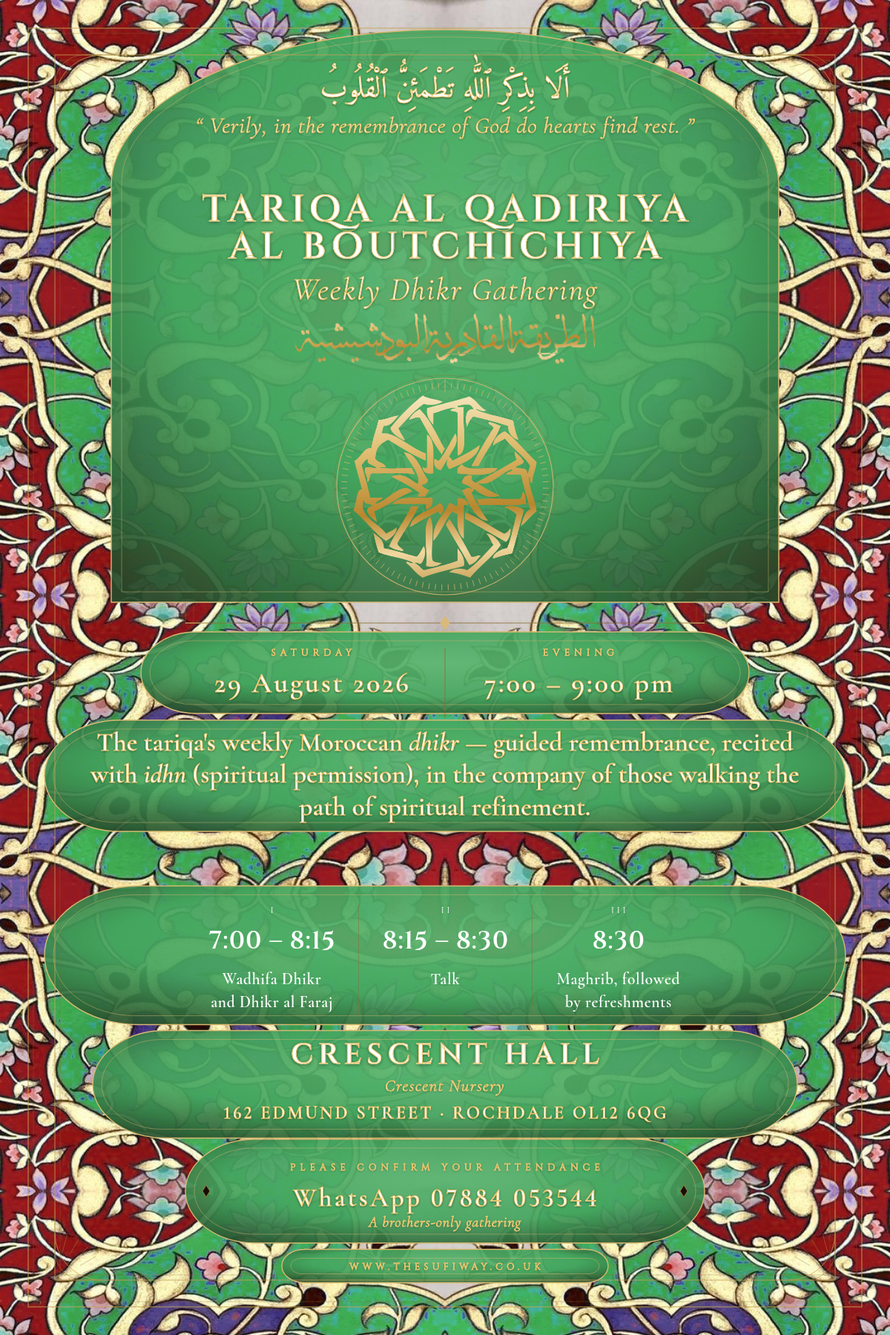
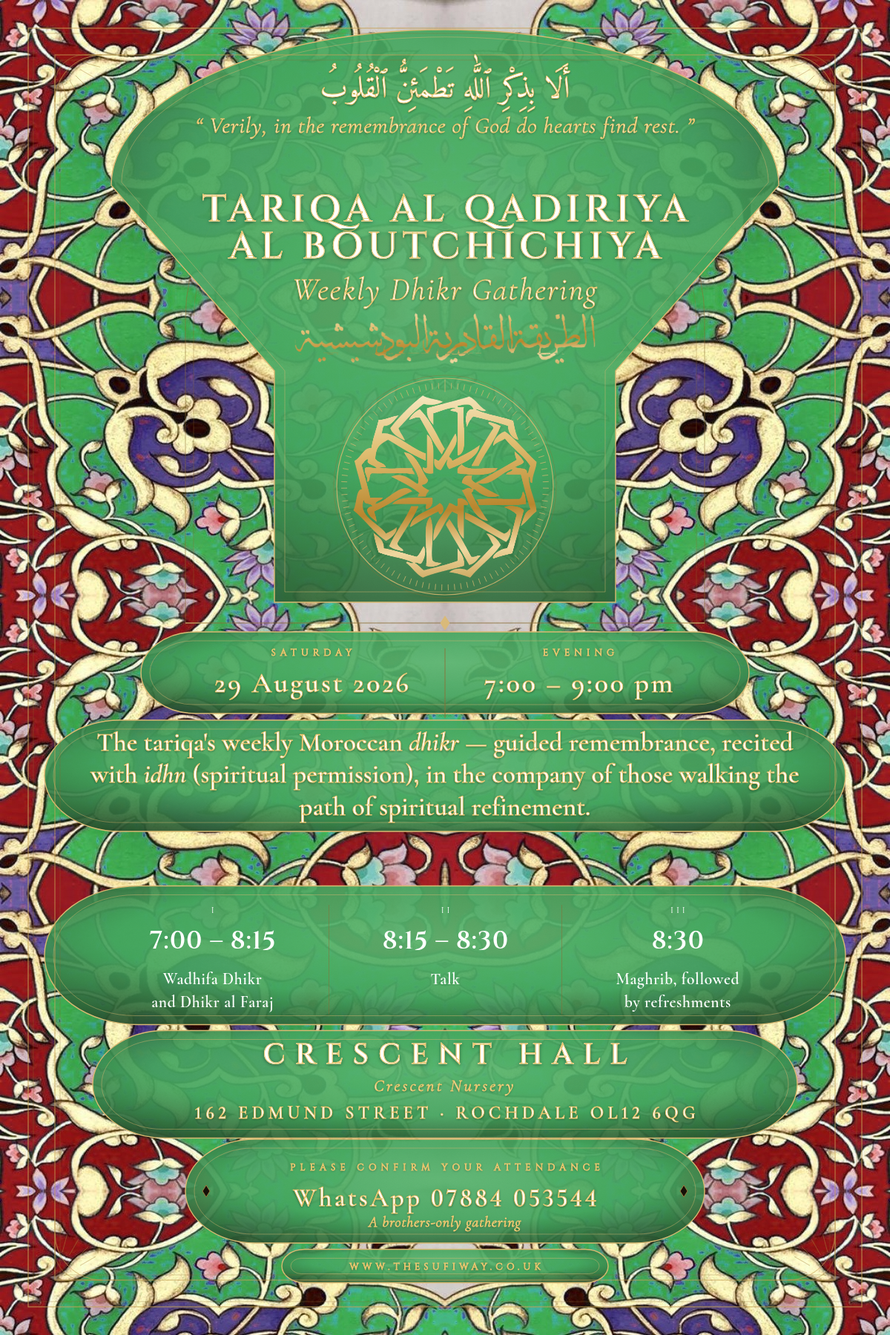
Waist the hero panel around the star, spread out the programme/venue text
Two fixes from the user's own markup on a rendered copy:

- hero_arch_panel() now tapers inward below the title/subtitle/wordmark
  to a narrower waist that runs straight down past the star, instead of
  staying at the full dome width all the way to the base. That width was
  dead solid-colour panel either side of the medallion, holding nothing
  (circled in black) — the shape now reads as a genuine keyhole/mihrab
  silhouette instead of a dome sat on a plain rectangle.
- The programme columns and the venue block's letter-spacing were both
  noticeably narrower than the cartouche bars behind them, leaving dead
  space at both ends (circled in red). cols_hw/cols_pad and venue_ls/
  vsub_ls/addr_ls are now palette keys (defaults match the previous
  hardcoded values, so no other colourway changes) — Illuminated widens
  the columns and roughly doubles the venue block's tracking so the
  writing fills the bar.

Claude-Session: https://claude.ai/code/session_01W3RXmfEcLks2fUKiCDKANu

diff --git a/design/weekly-gathering/final/final.py b/design/weekly-gathering/final/final.py
@@ -52,16 +52,23 @@ def build_hero(pal=None):
 # manuscript's own visual language instead — the mihrab arch already used as a
 # decorative outline (closed into a solid field), and a cusped cartouche bar,
 # the shape Persian/Islamic illumination actually uses to carry an inscription.
-def hero_arch_panel(base_y, inset=0.0, l=150, r=1050, apex_y=40, shoulder_y=250):
+def hero_arch_panel(base_y, inset=0.0, l=150, r=1050, apex_y=40, shoulder_y=250,
+                     waist_y=500, waist_l=370, waist_r=830):
     # a wide, flat horseshoe dome (half-ellipse), not the sharper mihrab point
     # used for the decorative arch outline — the ayah sits right up near the
     # top of this panel, and a true gothic point stays too narrow up there to
     # hold a full line of Arabic without spilling off the opaque fill.
+    # Below the title/subtitle/wordmark it tapers inward to a narrower waist
+    # that runs straight down past the star — full dome width there was just
+    # dead solid-colour space either side of the medallion, not holding
+    # anything, which read as empty rather than deliberate.
     l, r = l+inset, r-inset
     apex_y, shoulder_y = apex_y+inset*0.7, shoulder_y-inset*0.3
+    wl, wr = waist_l+inset, waist_r-inset
     rx, ry = (r-l)/2, shoulder_y-apex_y
-    return (f'M {l},{base_y} L {l},{shoulder_y} '
-            f'A {rx:.1f},{ry:.1f} 0 0 1 {r},{shoulder_y} L {r},{base_y} Z')
+    return (f'M {wl},{base_y} L {wl},{waist_y} L {l},{shoulder_y} '
+            f'A {rx:.1f},{ry:.1f} 0 0 1 {r},{shoulder_y} L {wr},{waist_y} '
+            f'L {wr},{base_y} Z')
 
 def cartouche_bar(cx, cy, w, h, cap=None):
     # a rectangle with a smooth pointed-oval cap at each end, built from true
@@ -224,19 +231,19 @@ html,body{{background:#000}}
 .pd{{font-family:Cormorant,serif;font-weight:{pal.get('pd_weight',400)};font-size:21.5px;line-height:1.46;
   letter-spacing:.03em;color:{pal['pd']}}}
 .rn{{font-family:Cinzel,serif;font-size:11.5px;letter-spacing:.34em;text-indent:.34em;color:{pal['rn']}}}
-.venue{{font-family:Cinzel,serif;font-weight:600;font-size:39px;letter-spacing:.18em;text-indent:.18em}}
+.venue{{font-family:Cinzel,serif;font-weight:600;font-size:39px;letter-spacing:{pal.get('venue_ls','.18em')};text-indent:{pal.get('venue_ls','.18em')}}}
 .vsub{{font-family:Cormorant,serif;font-style:italic;font-weight:300;font-size:23px;
-  letter-spacing:.06em;color:{pal['vsub']}}}
-.addr{{font-variant-numeric:lining-nums;font-feature-settings:'lnum' 1;font-family:Cormorant,serif;font-weight:{pal.get('addr_weight',400)};font-size:24px;letter-spacing:.13em;
-  text-indent:.13em;color:{pal['addr']};text-transform:uppercase}}
+  letter-spacing:{pal.get('vsub_ls','.06em')};color:{pal['vsub']}}}
+.addr{{font-variant-numeric:lining-nums;font-feature-settings:'lnum' 1;font-family:Cormorant,serif;font-weight:{pal.get('addr_weight',400)};font-size:24px;letter-spacing:{pal.get('addr_ls','.13em')};
+  text-indent:{pal.get('addr_ls','.13em')};color:{pal['addr']};text-transform:uppercase}}
 .wa{{font-variant-numeric:lining-nums;font-feature-settings:'lnum' 1;font-family:Cormorant,serif;font-weight:{pal.get('wa_weight',400)};font-size:34.5px;letter-spacing:.1em;
   text-indent:.1em;color:{pal['wa']}}}
 .note{{font-family:Cormorant,serif;font-style:italic;font-weight:300;font-size:20px;
   letter-spacing:.05em;color:{pal['note']}}}
 .url{{font-family:Cinzel,serif;font-size:12.5px;letter-spacing:.42em;text-indent:.42em;color:{pal['url']}}}
-.cols{{position:absolute;left:{CX-350}px;width:700px;display:grid;
+.cols{{position:absolute;left:{CX-pal.get('cols_hw',350)}px;width:{pal.get('cols_hw',350)*2}px;display:grid;
   grid-template-columns:1fr 1fr 1fr;text-align:center}}
-.cols > div{{padding:0 14px}}
+.cols > div{{padding:0 {pal.get('cols_pad',14)}px}}
 .cols > div + div{{border-left:1px solid rgba(138,108,52,.5)}}
 '''
 
@@ -542,6 +549,11 @@ ILLUMINATED.update(
     # _GOLD/_PURPLE variants below for the other panel colourways.
     cartouche_stops=[(0, "#A01A25"), (55, "#871314"), (100, "#2A1011")],
     cartouche_opacity=0.92, cartouche_edge="#D8B870",
+    # the programme columns and the venue block were both a good deal
+    # narrower than the cartouche bar behind them, leaving plain dead panel
+    # either side — widened/spread out to actually use that width instead.
+    cols_hw=470, cols_pad=20,
+    venue_ls=".34em", vsub_ls=".14em", addr_ls=".22em",
     cartouche_zones=[
         dict(shape="arch", base_y=812),
         dict(shape="bar", cx=CX, cy=907, w=820, h=110),

diff --git a/design/weekly-gathering/illuminated/README.md b/design/weekly-gathering/illuminated/README.md
@@ -77,6 +77,13 @@ actually in `final.py` now:
   a hairline outline, but the ayah (a full line of Arabic sitting right up
   near the top of the panel) spilled straight off the sides of it onto the
   bare photo. The wider ellipse stays close to full width much further up.
+  Below the title/subtitle/wordmark it now tapers inward to a narrower
+  `waist_y`/`waist_l`/`waist_r`, running straight down past the star instead
+  of staying at the full dome width all the way to the base — the user
+  circled that space in black on a rendered copy: full width there was just
+  dead solid-colour panel either side of the medallion, holding nothing,
+  and read as empty rather than deliberate. The result is closer to a
+  genuine keyhole/mihrab silhouette than the dome-on-a-rectangle it was.
 - **`cartouche_bar(cx, cy, w, h)`** is the shape for everything below the
   arch: a horizontal bar with a smooth pointed-oval cap at each end — the
   same vocabulary Persian/Islamic illumination actually uses to carry an
@@ -97,6 +104,15 @@ actually in `final.py` now:
 - The old hairline "confirm attendance" box (a plain rounded rectangle)
   is suppressed on any colourway that supplies `cartouche_zones`, so it
   doesn't draw on top of the WhatsApp cartouche.
+- The programme columns (`.cols`, previously a fixed 700px) and the venue
+  block's letter-spacing (`.venue`/`.vsub`/`.addr`) were both noticeably
+  narrower than the wide cartouche bars sitting behind them — the user
+  circled the dead space at both ends of those bars in red. `cols_hw`/
+  `cols_pad` and `venue_ls`/`vsub_ls`/`addr_ls` are now palette keys
+  (defaults match the previous hardcoded values, so every other colourway
+  is unaffected); Illuminated widens the columns and roughly doubles the
+  venue block's tracking so the writing actually fills the bar instead of
+  sitting in a narrow strip in the middle of it.
 
 ### The panel fill itself: four colourways, real gradients not flat tints
 
